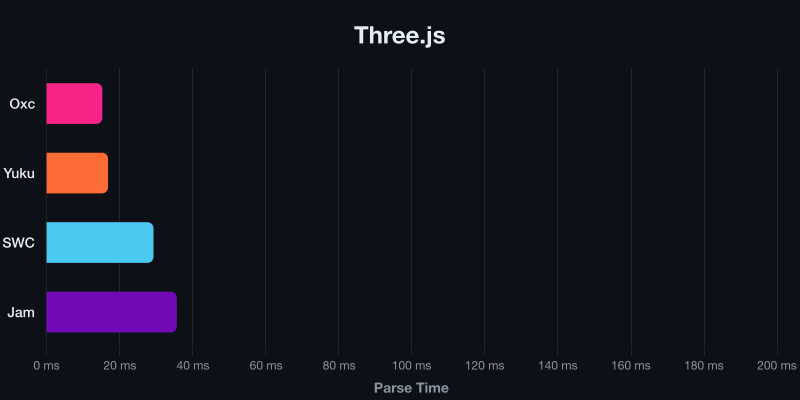
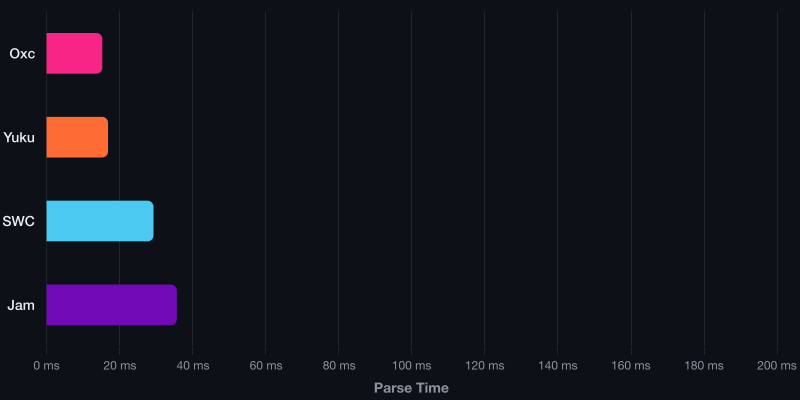
Update

diff --git a/scripts/generate-readme.ts b/scripts/generate-readme.ts
@@ -155,17 +155,7 @@ async function generatePerformanceChart(fileKey: FileKey): Promise<string> {
       responsive: false,
       plugins: {
         title: {
-          display: true,
-          text: FILES[fileKey].name,
-          font: {
-            size: 24,
-            weight: "bold",
-          },
-          color: "#e6edf3",
-          padding: {
-            top: 20,
-            bottom: 20,
-          },
+          display: false,
         },
         legend: {
           display: false,
